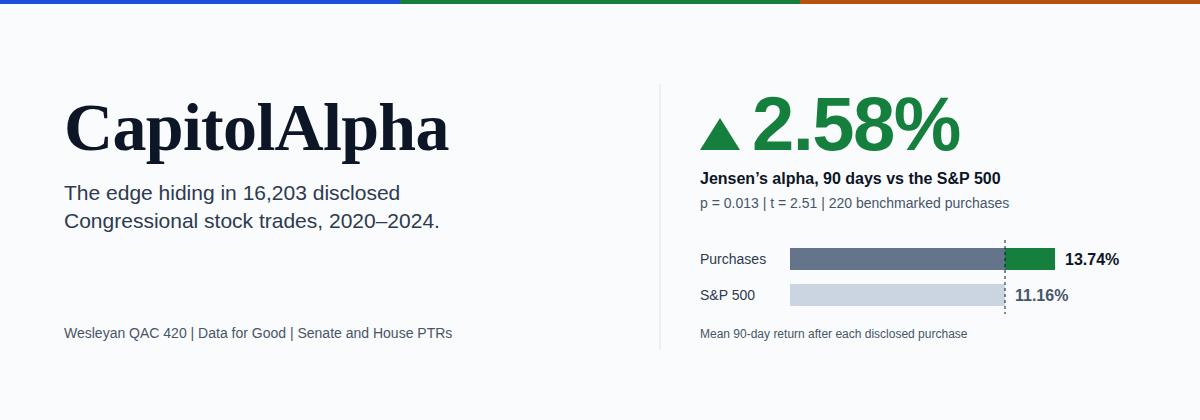
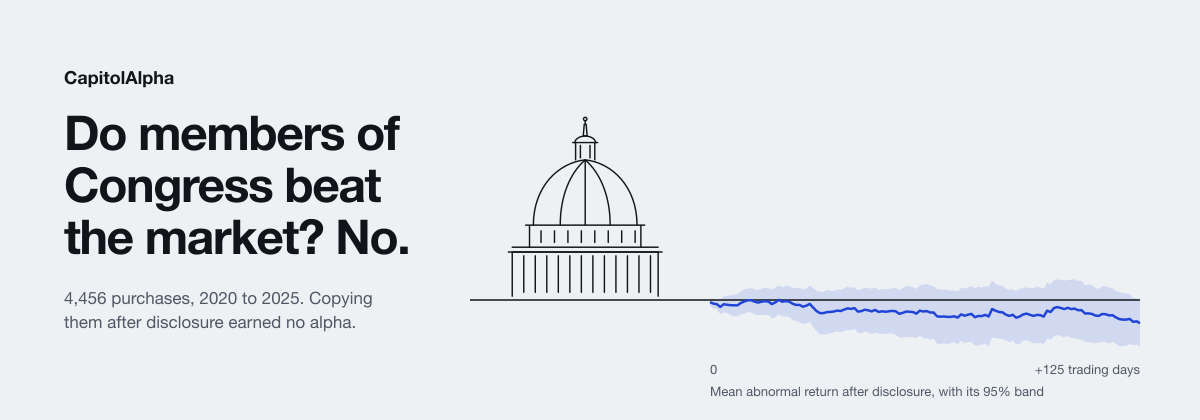
docs: report the event study in the README
The README still led with the retracted class result. It now gives
the event-study answer, a project history that explains the audit,
the key results table, the commands that reproduce them, and the
limits. The banners and social card are redrawn from the real CAR
path by design/banner.py, and the screenshot shows the new site.

diff --git a/design/banner.py b/design/banner.py
@@ -1,0 +1,111 @@
+"""Draw the README banners from site/data/figures.json.
+
+Usage:
+    python design/banner.py
+
+Writes assets/banner-light.svg, assets/banner-dark.svg and
+assets/social-card.svg. The plot on the
+right is the real mean CAR path after disclosure with its 95% band. Convert
+to PNG with rsvg-convert.
+"""
+
+from __future__ import annotations
+
+import json
+from pathlib import Path
+
+ROOT = Path(__file__).resolve().parent.parent
+FIGURES = ROOT / "site" / "data" / "figures.json"
+DOME = ROOT / "design" / "marks" / "dome.svg"
+FONT = "'Public Sans', 'Helvetica Neue', Helvetica, Arial, sans-serif"
+THEMES = {
+    "light": {"ground": "#eef1f4", "ink": "#111418", "muted": "#4f5864", "line": "#c9d0d8",
+              "accent": "#1f44d6", "band": "rgba(31,68,214,0.14)"},
+    "dark": {"ground": "#0e1116", "ink": "#eef1f4", "muted": "#a3acb8", "line": "#2a313b",
+             "accent": "#7d95ff", "band": "rgba(125,149,255,0.18)"},
+}
+
+
+def dome_paths() -> str:
+    text = DOME.read_text()
+    start = text.index("<path")
+    end = text.index("</g>")
+    return text[start:end]
+
+
+def plot(path: list[dict], x0: float, x1: float, zero: float, k: float) -> tuple[str, str]:
+    last = path[-1]["day"]
+
+    def x(day: float) -> float:
+        return x0 + (x1 - x0) * day / last
+
+    def y(value: float) -> float:
+        return zero - value * 100 * k
+
+    upper = [f"{x(q['day']):.1f},{y(q['mean'] + 1.96 * q['se']):.1f}" for q in path]
+    lower = [f"{x(q['day']):.1f},{y(q['mean'] - 1.96 * q['se']):.1f}" for q in reversed(path)]
+    line = [f"{x(q['day']):.1f},{y(q['mean']):.1f}" for q in path]
+    return "M" + "L".join(upper + lower) + "Z", "M" + "L".join(line)
+
+
+def banner(theme: dict[str, str], path: list[dict]) -> str:
+    band, line = plot(path, 710, 1140, 300, 34)
+    return f"""<svg xmlns="http://www.w3.org/2000/svg" width="1200" height="420" viewBox="0 0 1200 420">
+  <title>CapitolAlpha: do members of Congress beat the market? No. Copying 4,456 disclosed purchases earned no alpha.</title>
+  <rect width="1200" height="420" fill="{theme['ground']}"/>
+  <g font-family="{FONT}">
+    <text x="64" y="84" font-size="18" font-weight="700" fill="{theme['ink']}">CapitolAlpha</text>
+    <text x="64" y="150" font-size="48" font-weight="700" letter-spacing="-1.4" fill="{theme['ink']}">Do members of</text>
+    <text x="64" y="202" font-size="48" font-weight="700" letter-spacing="-1.4" fill="{theme['ink']}">Congress beat</text>
+    <text x="64" y="254" font-size="48" font-weight="700" letter-spacing="-1.4" fill="{theme['ink']}">the market? No.</text>
+    <text x="64" y="304" font-size="17" fill="{theme['muted']}">4,456 purchases, 2020 to 2025. Copying</text>
+    <text x="64" y="328" font-size="17" fill="{theme['muted']}">them after disclosure earned no alpha.</text>
+    <text x="710" y="374" font-size="13" fill="{theme['muted']}">0</text>
+    <text x="1140" y="374" font-size="13" text-anchor="end" fill="{theme['muted']}">+125 trading days</text>
+    <text x="710" y="396" font-size="13" fill="{theme['muted']}">Mean abnormal return after disclosure, with its 95% band</text>
+  </g>
+  <g transform="translate(470 108) scale(0.96)" fill="none" stroke="{theme['ink']}" stroke-width="1.5"
+     stroke-linecap="round" stroke-linejoin="round">
+    {dome_paths()}
+  </g>
+  <path d="{band}" fill="{theme['band']}"/>
+  <line x1="470" y1="300" x2="1140" y2="300" stroke="{theme['ink']}" stroke-width="1.5"/>
+  <path d="{line}" fill="none" stroke="{theme['accent']}" stroke-width="2.5" stroke-linejoin="round"/>
+</svg>
+"""
+
+
+def social(theme: dict[str, str], path: list[dict]) -> str:
+    band, line = plot(path, 840, 1136, 470, 40)
+    return f"""<svg xmlns="http://www.w3.org/2000/svg" width="1200" height="630" viewBox="0 0 1200 630">
+  <rect width="1200" height="630" fill="{theme['ground']}"/>
+  <g font-family="{FONT}">
+    <text x="64" y="96" font-size="24" font-weight="700" fill="{theme['ink']}">CapitolAlpha</text>
+    <text x="64" y="206" font-size="68" font-weight="700" letter-spacing="-2.2" fill="{theme['ink']}">Do members of</text>
+    <text x="64" y="278" font-size="68" font-weight="700" letter-spacing="-2.2" fill="{theme['ink']}">Congress beat</text>
+    <text x="64" y="350" font-size="68" font-weight="700" letter-spacing="-2.2" fill="{theme['ink']}">the market? No.</text>
+    <text x="64" y="420" font-size="22" fill="{theme['muted']}">4,456 purchases, 2020 to 2025. Copying them</text>
+    <text x="64" y="452" font-size="22" fill="{theme['muted']}">after disclosure earned no four-factor alpha.</text>
+    <text x="840" y="562" font-size="16" fill="{theme['muted']}">Mean abnormal return, days 0 to 125</text>
+    <text x="840" y="586" font-size="16" fill="{theme['muted']}">after disclosure, with its 95% band</text>
+  </g>
+  <g transform="translate(560 214) scale(1.3)" fill="none" stroke="{theme['ink']}" stroke-width="1.3"
+     stroke-linecap="round" stroke-linejoin="round">
+    {dome_paths()}
+  </g>
+  <path d="{band}" fill="{theme['band']}"/>
+  <line x1="560" y1="470" x2="1136" y2="470" stroke="{theme['ink']}" stroke-width="2"/>
+  <path d="{line}" fill="none" stroke="{theme['accent']}" stroke-width="3" stroke-linejoin="round"/>
+</svg>
+"""
+
+
+def main() -> None:
+    path = json.loads(FIGURES.read_text())["car_disclosure"]
+    for name, theme in THEMES.items():
+        (ROOT / "assets" / f"banner-{name}.svg").write_text(banner(theme, path))
+    (ROOT / "assets" / "social-card.svg").write_text(social(THEMES["light"], path))
+
+
+if __name__ == "__main__":
+    main()

diff --git a/README.md b/README.md
@@ -3,7 +3,7 @@
   <source media="(prefers-color-scheme: light)" srcset="assets/banner-light.svg" type="image/svg+xml">
   <source media="(prefers-color-scheme: dark)"  srcset="assets/banner-dark.png">
   <source media="(prefers-color-scheme: light)" srcset="assets/banner-light.png">
-  <img alt="CapitolAlpha: Congressional stock purchases beat the S&amp;P 500 by 2.58% over 90 days (13.74% vs 11.16%, p = 0.013)" src="assets/banner-dark.svg">
+  <img alt="CapitolAlpha: do members of Congress beat the market? No. The Capitol dome sits on a flat line that becomes the mean abnormal return after disclosure, which stays near zero." src="assets/banner-light.svg">
 </picture>
 
 [![CI](https://github.com/Builder106/capitol-alpha/actions/workflows/ci.yml/badge.svg)](https://github.com/Builder106/capitol-alpha/actions/workflows/ci.yml)
@@ -13,50 +13,44 @@
 [![License](https://img.shields.io/badge/license-MIT-blue.svg)](#license)
 [![Course](https://img.shields.io/badge/Wesleyan-QAC%20420-CC0000.svg)](https://www.wesleyan.edu/qac/)
 
-> **Analyzing whether Congressional stock trades beat the market.** An open research pipeline tracking 16,000 politician stock disclosures against the S&P 500.
+> **Do members of Congress beat the market?** An event study of 4,456 congressional stock purchases, 2020 to 2025, on CRSP data. Copying them once they were disclosed earned no four-factor alpha.
 
 <p align="center">
-  <img src="assets/screenshot.png" alt="The CapitolAlpha research note: the title, a summary strip of sector, coverage, window, sample, horizon and benchmark, and a headline finding that disclosed Congressional purchases beat the S&P 500 by an average of 2.58% over 90 days." width="880">
+  <img src="assets/screenshot.png" alt="The CapitolAlpha site: the question 'Do members of Congress beat the market?' beside a line drawing of the Capitol dome sitting on a long zero line, with the answer below." width="880">
 </p>
 
-## 💡 What is CapitolAlpha?
+## What is CapitolAlpha?
 
-Do members of Congress make better stock market trades than ordinary investors? CapitolAlpha is an open data pipeline that automatically collects and analyzes over 16,000 stock trades reported by federal politicians. It compares their financial returns against the general stock market (S&P 500) to determine whether politicians have an abnormal trading advantage.
+Members of Congress have to disclose their stock trades, and a popular claim says they beat the market. CapitolAlpha collects those disclosures from the House and Senate and tests the claim the way finance research tests events: it measures each purchase's return against what a four-factor model predicts, starting on the day the public could first see the trade.
 
-Members of Congress disclosed **16,203 stock trades** between 2020 and 2024. Their *purchases* beat the S&P 500 by an average of **+2.58%** over the following 90 days (statistically significant at p < 0.05). This repository contains the end-to-end pipeline behind that finding.
+The answer is no. A portfolio that buys every disclosed purchase the day after disclosure and holds it for 62 trading days, the test fixed in advance, earns a four-factor alpha of -1.82% a year (t = -0.74, p = 0.46). Average abnormal returns after disclosure stay inside a 95% band that covers zero on every one of the first 126 trading days, and eight robustness checks agree.
 
-**Findings page:** [capitolalpha.vercel.app](https://capitolalpha.vercel.app) (the headline statistics, interactive charts, and formal writeup in one place).
+**Site:** [capitolalpha.vercel.app](https://capitolalpha.vercel.app) walks through the study in event time.
 
-## 🛠 Project Overview
+## Project history
 
-A semester project for **QAC 420 (Data for Good)** at Wesleyan University using public data for civic accountability.
+CapitolAlpha started in spring 2025 as a semester project for **QAC 420 (Data for Good)** at Wesleyan University. That version reported that purchases beat the S&P 500. An audit in November 2026 found it did not hold: a text filter dropped every House purchase, leaving about 220 Senate trades; only the 50 most-traded tickers had prices; returns started on the trade date; and the "alpha" assumed a beta of one. The [journal](JOURNAL.md) records the details.
 
-The answer is a reproducible Python pipeline that:
+The redo follows a plan committed before any new return was computed: [`docs/specs/event-study.md`](docs/specs/event-study.md). One change was made after seeing results (abnormal returns now remove factor exposure only, as the plan says), and the first run's numbers are still printed and reported.
 
-1. Scrapes Senate stock disclosure reports (Periodic Transaction Reports) directly from **efdsearch.senate.gov** using automated browser scripts.
-2. Extracts House disclosure PDFs from **disclosures-clerk.house.gov** via table extraction tools.
-3. Normalizes filings from both chambers into a single unified dataset (`legislative_trades.csv` with 16,203 rows across 2020 to 2024).
-4. Pulls historical market prices via Yahoo Finance and calculates risk-adjusted excess returns (Jensen's alpha) over 30, 90, and 180-day holding periods compared to the S&P 500.
-
-Full deliverables:
-
-- **[Abstract](docs/abstract/abstract.pdf)**: 1-page academic abstract.
-- **[Final Reflection](docs/Final_Reflection/Final_Reflection.pdf)**: 5-page essay on methodology, ethics, and future research.
-- **[Statistics writeup](docs/statistics/statistics.pdf)**: Formal statistical workup behind the market-outperformance findings.
+The spring 2025 course write-ups are kept as a record and are superseded by the event study: [abstract](docs/abstract/abstract.pdf), [final reflection](docs/Final_Reflection/Final_Reflection.pdf), [statistics](docs/statistics/statistics.pdf).
 
 ## Key findings
 
-| Metric | Congressional purchases | S&P 500 (market benchmark) | Effect |
-| --- | --- | --- | --- |
-| Average 90-day return on investment | **13.74%** | ~11.16% | +2.58 percentage points |
-| **Risk-adjusted excess return (Jensen's alpha)** | — | — | **+2.58%** (statistically significant, p < 0.05) |
-| Pre-crash sell concentration | Top **5%** of sellers timed market exits before Feb 20, 2020 | — | Suggestive of timing, not definitive proof of cause |
-| Analyzed trades | **220 benchmarkable purchases** out of 16,203 raw rows | — | Strict criteria requiring clear public ticker symbols |
-| Time window | 2020-01-01 to 2024-12-31 | — | Spans the COVID-19 market drop and recovery |
+Full tables: [`docs/results/event-study.md`](docs/results/event-study.md) and [`docs/results/disclosure-lag.md`](docs/results/disclosure-lag.md).
 
-*Note on terms:* **Jensen's alpha** measures how much an investment outperformed what would normally be expected given its market risk. A positive value (+2.58%) indicates that politician purchases gained more than expected compared to the general stock market.
+| Question | Result |
+| --- | --- |
+| Copy portfolio from disclosure, 62-day hold (primary) | Alpha -1.82% a year, t = -0.74, p = 0.461, 3,942 House purchases |
+| Same portfolio, 20 and 125 days | 1.95% (p = 0.547) and -1.81% (p = 0.433) |
+| Mean CAR after disclosure, days 20, 62 and 125 | 0.00%, -0.34%, -0.68%; smallest Holm-adjusted p = 0.343 |
+| Mean CAR after the trade date | No horizon significant after Holm correction |
+| Eight robustness checks | All insignificant; largest is amount-weighted, 7.12% a year (t = 1.43) |
+| Disclosure delay (House) | Median 13 days; 69 of 1,965 filings were late under the STOCK Act's 45 days |
 
-The statistical details (t-statistics, confidence intervals, risk-adjusted Sharpe ratios, and return distributions) are available in [`notebooks/Financial_Analysis.ipynb`](notebooks/Financial_Analysis.ipynb).
+Sample: 5,137 purchases after the plan's rules, of which 4,456 match CRSP common stock on the trade date. ETFs, funds, ADRs and over-the-counter foreign shares are excluded and listed with reasons.
+
+One exploratory pattern: members tend to buy stocks that had been beating the factor model before the trade.
 
 ## Pipeline
 
@@ -74,45 +68,40 @@ Senate and House filings are fetched separately and merged into one 16,203-row t
 ## Reproducing the analysis
 
 ```bash
-# 1. Setup environment
 uv sync --group dev
 uv run playwright install chromium
 
-# 2. Fetch data (Option A: scrape official sites)
 python -m pipeline.run_pipeline --use-official
+uv run python -m pipeline.disclosure_lag
 
-# 2b. (Option B: pre-aggregated dataset fallback)
-python -m pipeline.run_pipeline
+uv run --with "psycopg[binary]" python -m pipeline.crsp --user WRDS_USER --out-dir DIR
+uv run python -m pipeline.run_event_study --data-dir DIR
+uv run python -m pipeline.site_figures --data-dir DIR
 
-# 3. Run test suite
-pytest
-
-# 4. Open the analysis notebooks
-jupyter lab notebooks/Financial_Analysis.ipynb
+uv run pytest
 ```
 
-Pipeline options (`--fresh`, `--senate-only`, `--house-only`) and fallback settings are documented in [`pipeline/README_PIPELINE.md`](pipeline/README_PIPELINE.md).
+The event study needs a WRDS account with CRSP access. `pipeline.crsp` reads the password from your own `~/.pgpass`. CRSP data is licensed, so the extract in `DIR` stays out of the repository; `pipeline.site_figures` writes only aggregates to `site/data/figures.json`.
 
-## Research caveats
+Pipeline options (`--fresh`, `--senate-only`, `--house-only`) are documented in [`pipeline/README_PIPELINE.md`](pipeline/README_PIPELINE.md).
 
-This is an academic study based on public filings. The findings are best read as an exploratory investigation:
+## Limits
 
-- **Filing delay:** Politicians can disclose trades up to 30 to 45 days after they happen, meaning the public cannot copy these trades in real time.
-- **Sample selection:** Only 220 trades out of 16,203 had clear stock ticker symbols and reliable price data across the analysis window. Private investments, real estate, and derivatives were excluded.
-- **Statistical assumptions:** The risk adjustment model assumes standard market pricing models, which may vary during volatile periods like the early COVID pandemic.
-- **Correlation vs. causation:** Beating the market can happen for multiple reasons, including personal wealth advisors, sector choices, or general market trends. The data shows correlation, not proof of insider knowledge.
-
-The [Final Reflection PDF](docs/Final_Reflection/Final_Reflection.pdf) expands on all of these.
+- **House only for the primary test.** The Senate records in the snapshot carry no disclosure date, so Senate purchases appear only in the trade-date checks.
+- **Late filings are right-censored.** The trade snapshot dates from April 2026, so some filings for late 2025 trades are missing.
+- **Prices end on 31 December 2025.** Later purchases have shorter horizons, so fewer events reach day 125.
+- **A null is not proof of no information.** The test asks whether a public follower could profit. It says nothing about what any member knew.
 
 ## Tech stack
 
-- **Python 3.11+** with `pandas`, `scipy`, `matplotlib`, `seaborn`
+- **Python 3.11+** with `pandas` and `numpy` for the event study, plus `scipy`, `matplotlib` and `seaborn` in the notebooks
+- **CRSP through WRDS** for daily returns, and Kenneth French's data library for the factors
 - **Playwright** for browser automation on JavaScript-rendered disclosure sites
 - **pdfplumber** for House PTR PDF table extraction
-- **yfinance** for SPY and per-ticker price history
+- **yfinance** in the spring 2025 notebooks only
 - **pytest** for unit tests on the fetchers and merge step
 - **Jupyter** for the EDA and financial-analysis notebooks
-- **Flourish** for the presentation visualization
+- **GSAP** and Glaxnimate-drawn SVG for the site
 
 ## Acknowledgments
 
